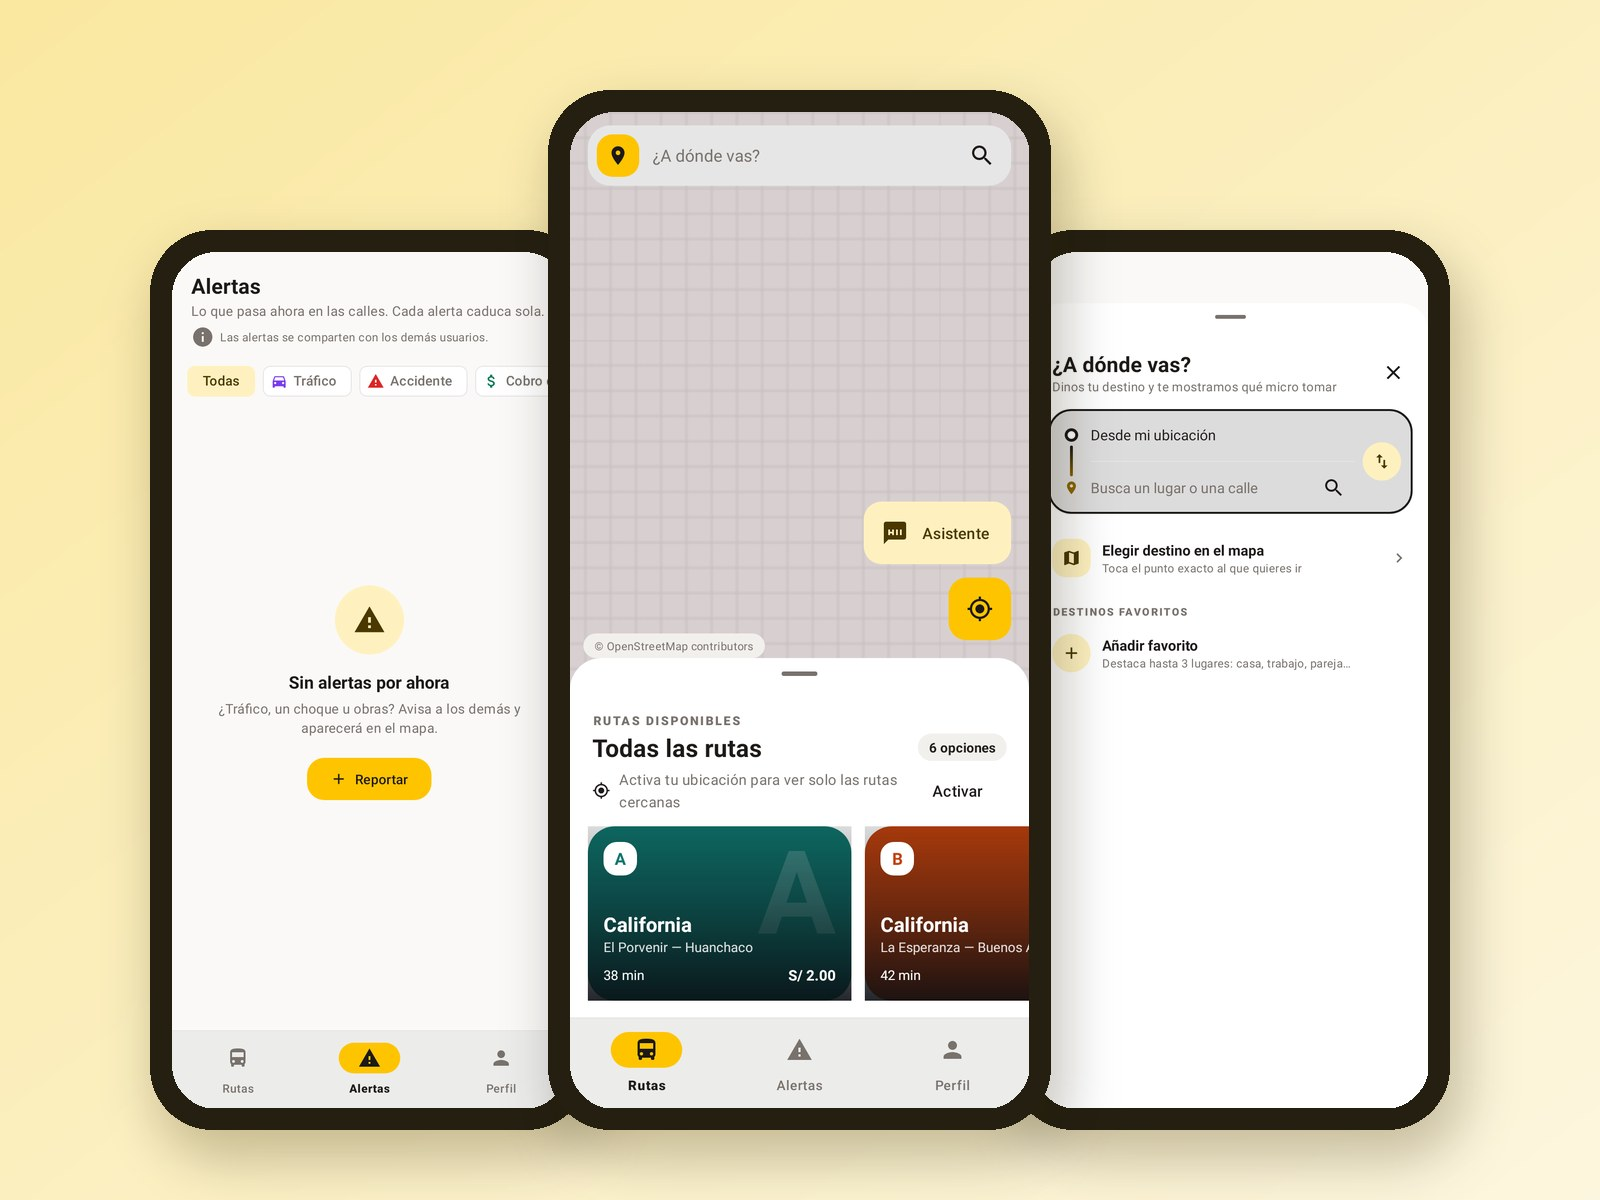
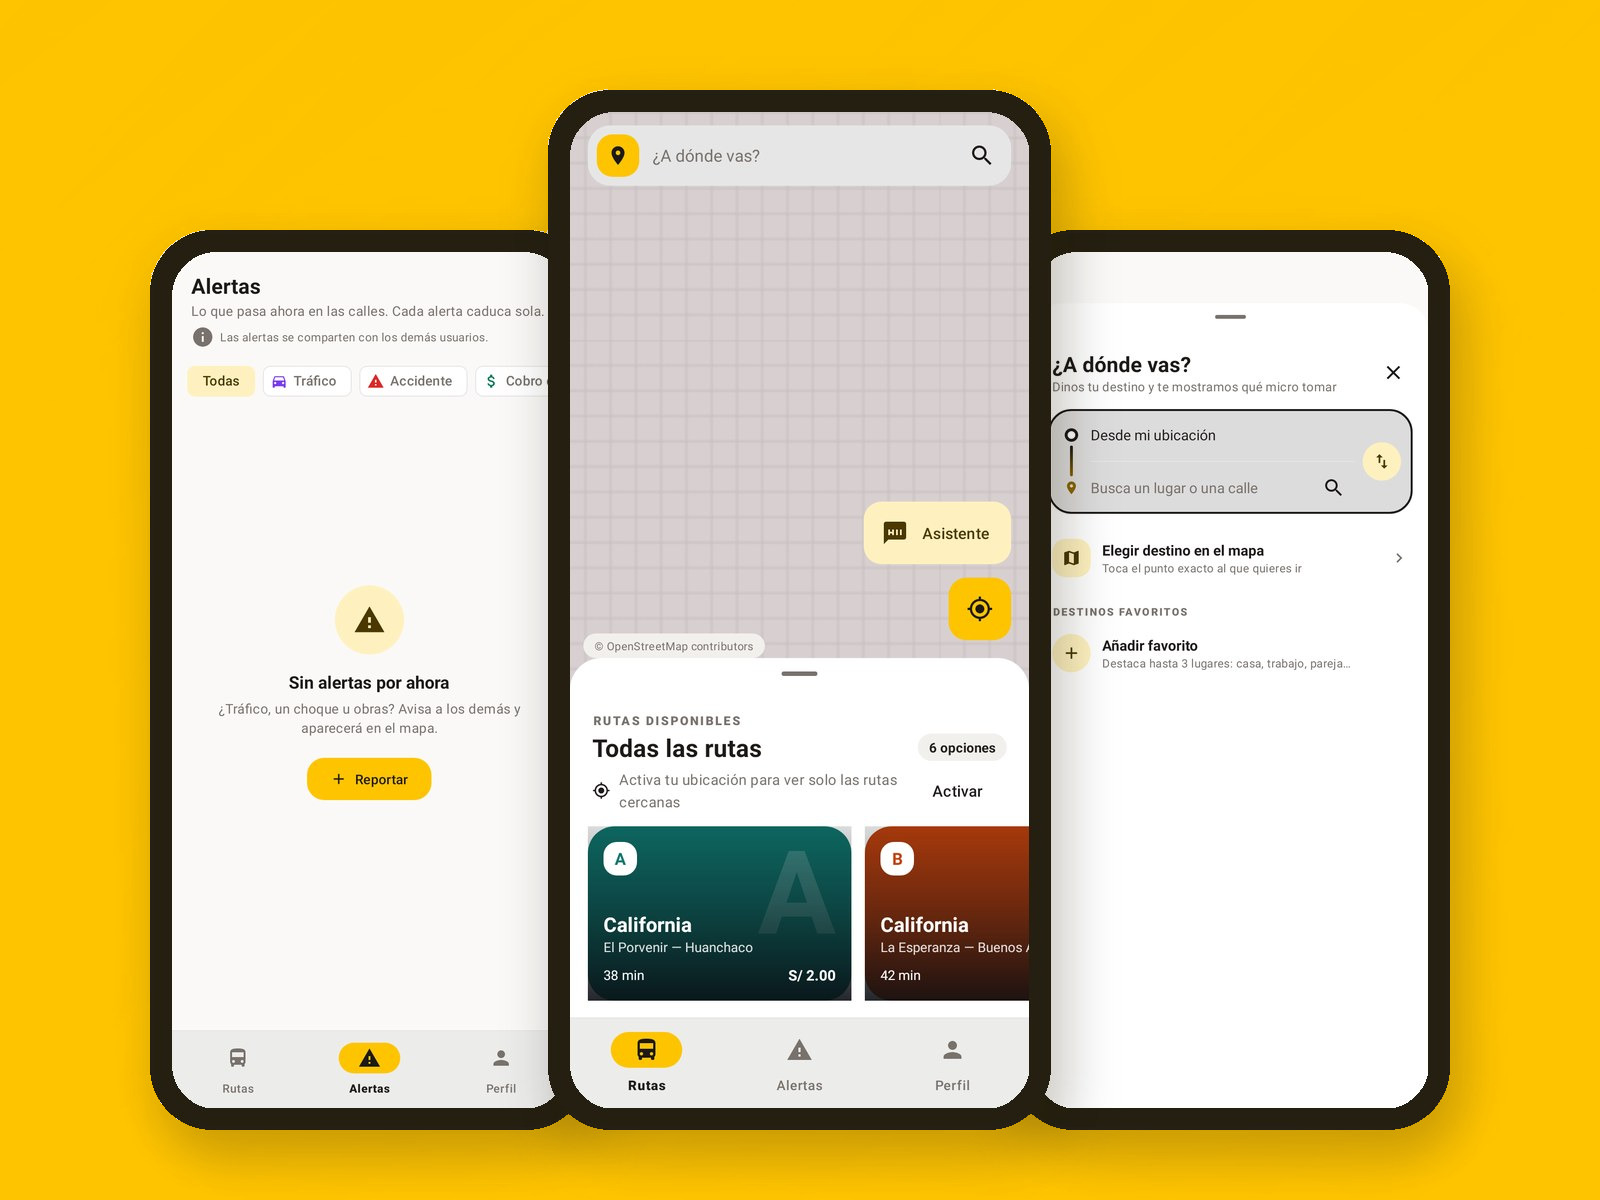
Web: en «Descargar app», el amarillo de la marca va solo en la imagen de la app, no en toda la portada

diff --git a/flutter_app/lib/pages/info_pages.dart b/flutter_app/lib/pages/info_pages.dart
@@ -684,7 +684,7 @@ class DownloadPage extends StatelessWidget {
           child: Text(
             'La app tiene todo lo de la web y además te ubica en el mapa, te dice cómo llegar y te avisa '
             'cuando te toca bajar.',
-            style: text.bodyMedium?.copyWith(color: Palette.accentText, fontSize: 18, height: 1.65),
+            style: text.bodyMedium?.copyWith(color: Palette.body, fontSize: 18, height: 1.65),
           ),
         ),
         const SizedBox(height: 22),
@@ -698,13 +698,13 @@ class DownloadPage extends StatelessWidget {
               icon: const Icon(Icons.download, size: 18, color: Palette.accent),
               label: Text(_ready ? 'Descargar para Android' : 'Disponible pronto'),
             ),
-            if (_ready) Text(details, style: text.bodySmall?.copyWith(fontSize: 14, color: Palette.accentText)),
+            if (_ready) Text(details, style: text.bodySmall?.copyWith(fontSize: 14, color: Palette.muted)),
           ],
         ),
         if (!_ready) ...[
           const SizedBox(height: 10),
           Text('Estamos preparando la descarga. Mientras tanto puedes usar Subo desde esta web.',
-              style: text.bodySmall?.copyWith(fontSize: 14, color: Palette.accentText)),
+              style: text.bodySmall?.copyWith(fontSize: 14, color: Palette.muted)),
         ],
       ],
     );
@@ -713,14 +713,9 @@ class DownloadPage extends StatelessWidget {
       maxWidth: 1100,
       footer: SiteFooter(onPage: onPage),
       children: [
-        // La portada, sobre el mismo amarillo de la marca que la de Inicio.
-        Container(
-          padding: EdgeInsets.all(narrow ? 24 : 48),
-          decoration: BoxDecoration(color: Palette.accent, borderRadius: BorderRadius.circular(32)),
-          child: _Columns(
-            gap: 56,
-            children: [intro, const SitePhoto(file: 'app.jpg', hint: 'Captura de la app')],
-          ),
+        _Columns(
+          gap: 56,
+          children: [intro, const SitePhoto(file: 'app.jpg', hint: 'Captura de la app')],
         ),
         const SizedBox(height: 72),
         // Lo que solo tiene la app, en una franja blanca.
